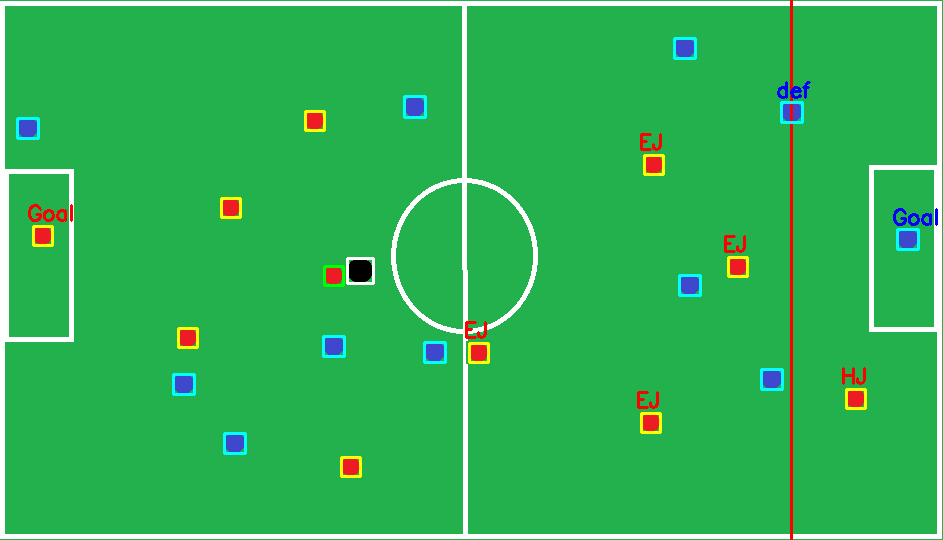
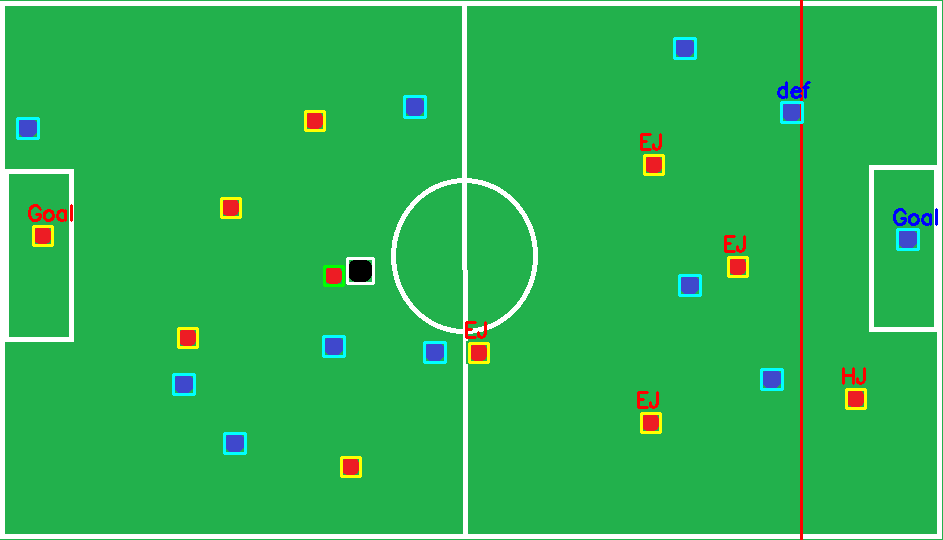
ok

Changed region(s): [[0.8303, 0.0, 0.8611, 1.0]]

diff --git a/src/fonction/AnalyseHorsJeu.java b/src/fonction/AnalyseHorsJeu.java
@@ -58,8 +58,8 @@ public class AnalyseHorsJeu {
          
         if (terrainImage != null && dernierDefenseurOpposant != null) {
  
-            Point pointDebut = new Point(dernierDefenseurOpposant.getPosition().x, 0);   
-            Point pointFin = new Point(dernierDefenseurOpposant.getPosition().x, terrainImage.rows());  
+            Point pointDebut = new Point(dernierDefenseurOpposant.getPosition().x+dernierDefenseurOpposant.getDimension().width/2, 0);   
+            Point pointFin = new Point(dernierDefenseurOpposant.getPosition().x+dernierDefenseurOpposant.getDimension().width/2, terrainImage.rows());  
 
              
             Imgproc.line(terrainImage, pointDebut, pointFin, new Scalar(0, 0, 255), 2);  
